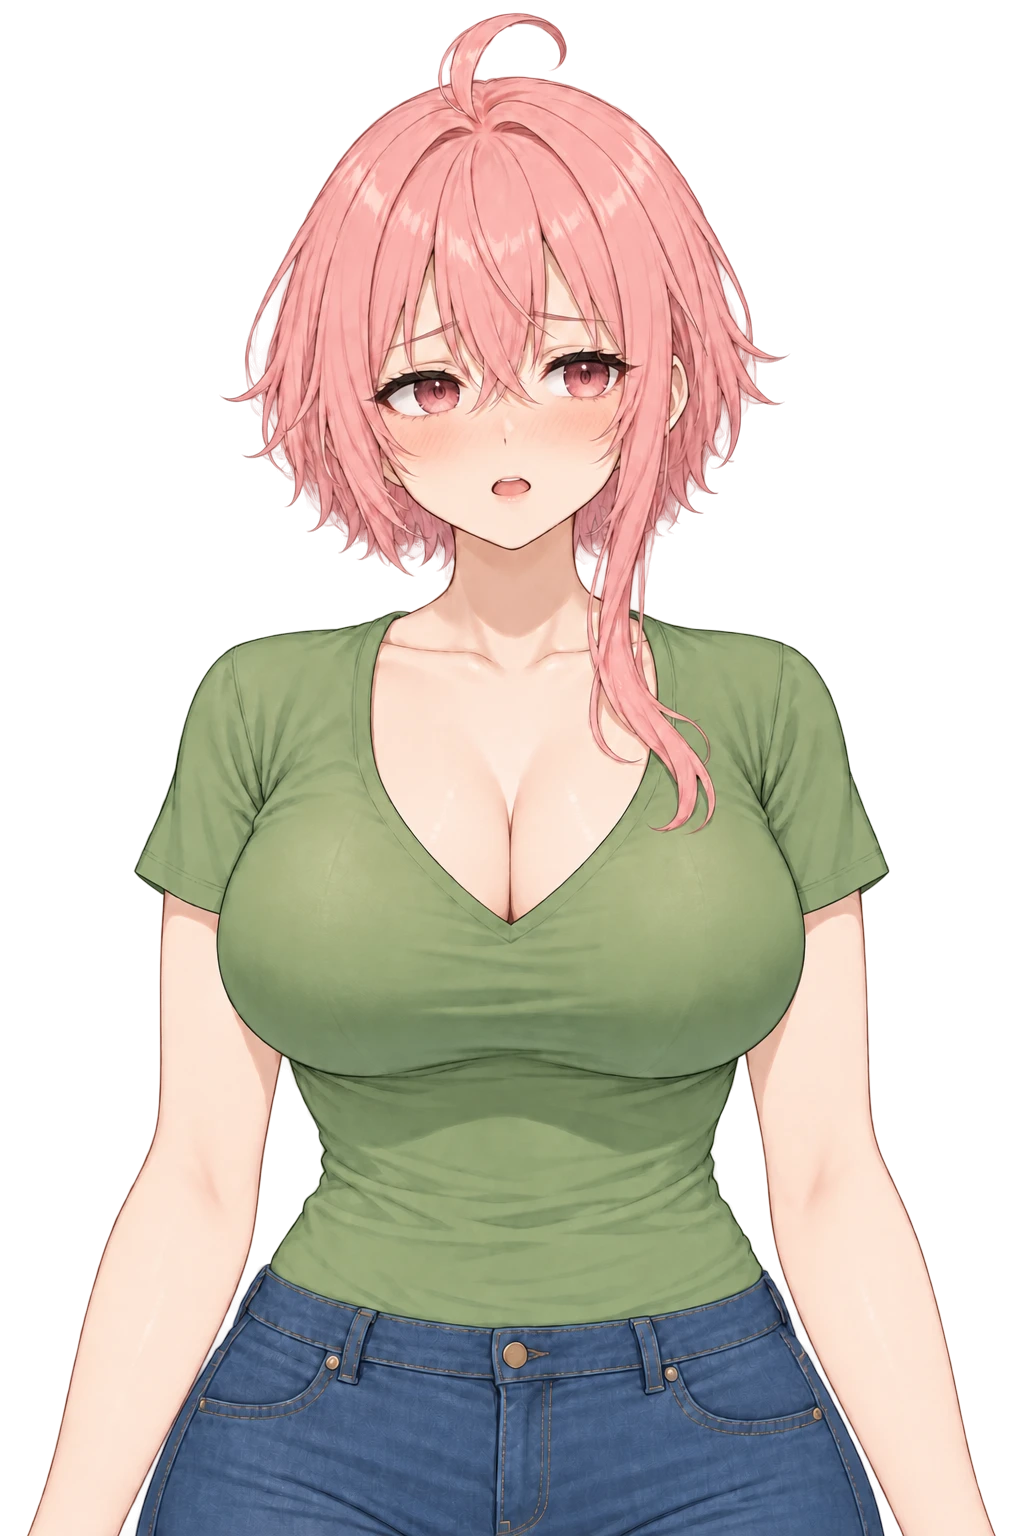
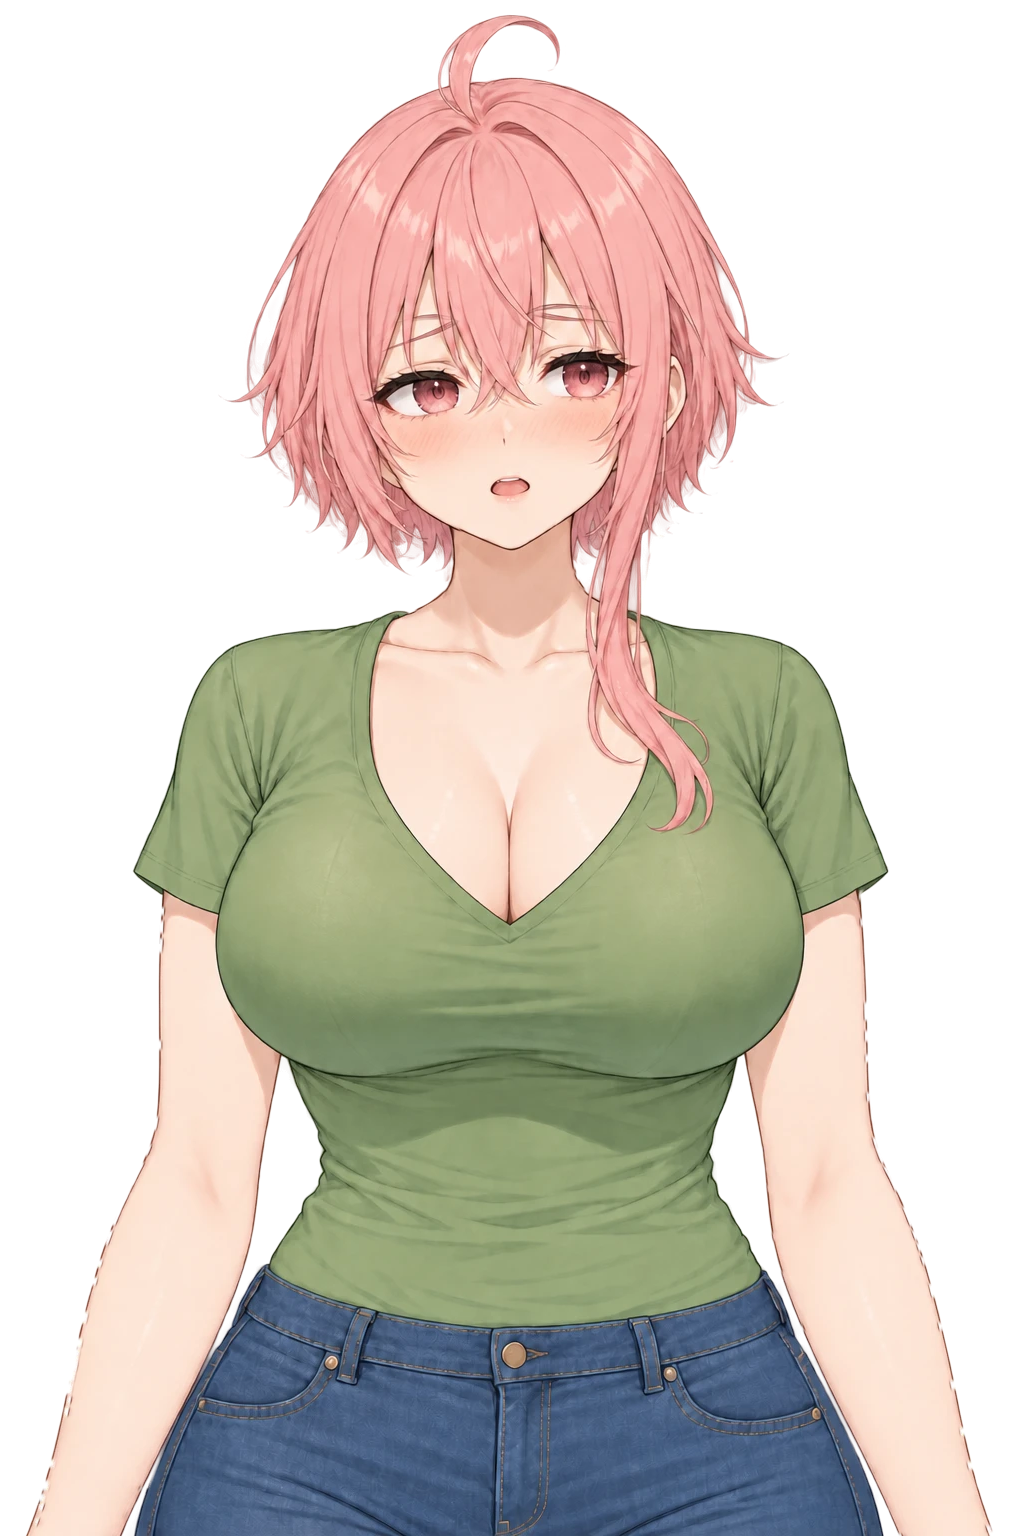
Add closed-eye and surprised art; unify hair across all part images
Generated variants redraw hair strands slightly differently, so swapping
eye/mouth/face regions made bangs jump and left doubled strands at the
blend edges. scripts/prepare_parts.py now auto-aligns each variant and
replaces every hair-colored pixel with the base image's hair, keeping
only the eye cores, mouth and (for expressions) brows from the variant.

- avatar/source/ holds the original generated images; avatar/parts/ is the processed output
- Real closed eyes (eyes_closed) and surprised face (exp_surprised, key 4)
- Surprised face keeps its own 'o' mouth; its mouth also stands in for mouth_o

Claude-Session: https://claude.ai/code/session_01Ge6z8knAgFewgZssfmod9u

diff --git a/scripts/prepare_parts.py b/scripts/prepare_parts.py
@@ -1,0 +1,167 @@
+"""差分画像の下ごしらえ: avatar/source/ の元画像 → avatar/parts/ のパーツ画像
+
+画像生成 AI で作った差分画像は、同じ絵を編集しても髪の毛の線が少しずつ描き直されている。
+そのまま目や口の範囲を差し替えると、まばたきや表情の切り替えで前髪がピクッと動いたり、
+境目で髪の線が二重に見えたりする。そこで各差分画像について
+
+  1. 基本画像との位置ずれ（数 px）を自動で見つけて合わせる
+  2. 「どちらかの画像で髪の毛の色をしている所」は基本画像の髪で上書きする
+     （目の中心部 eyeCores・口 mouthCores・表情画像の眉 browCores だけは差分画像をそのまま使う）
+
+を行い、髪が基本画像と完全に同じになったパーツ画像を書き出す。
+
+使い方:
+    pip install pillow numpy
+    python scripts/prepare_parts.py
+
+avatar/source/ に置くファイル名 = パーツ名（base.png, eyes_closed.png, exp_smile.png …）。
+1 枚の元画像を複数のパーツに使う場合は avatar.json の cleanup.reuse に書く。
+設定は avatar/avatar.json の "cleanup" を使う。
+"""
+
+import json
+import sys
+from pathlib import Path
+
+import numpy as np
+from PIL import Image, ImageFilter
+
+ROOT = Path(__file__).resolve().parent.parent
+SRC = ROOT / "avatar" / "source"
+OUT = ROOT / "avatar" / "parts"
+CONFIG = ROOT / "avatar" / "avatar.json"
+
+
+def load_rgba(path):
+    a = np.asarray(Image.open(path).convert("RGBA")).astype(np.float32) / 255.0
+    # 画像生成 AI の透過 PNG/WebP は不透明部分が alpha 0.99 程度のことがあるので整える
+    al = a[..., 3]
+    al[al > 0.94] = 1.0
+    al[al < 0.03] = 0.0
+    return a
+
+
+def on_white(a):
+    return a[..., :3] * a[..., 3:4] + (1 - a[..., 3:4])
+
+
+def hair_mask(a, hue_max=10.0, hue_min_wrap=335.0, s_min=0.2, v_min=0.35):
+    """ピンクの髪（と髪の線）らしい画素。肌・頬の赤み・唇は色相 15° 以上なので外れる"""
+    rgb = a[..., :3]
+    mx = rgb.max(-1)
+    mn = rgb.min(-1)
+    d = mx - mn + 1e-6
+    r, g, b = rgb[..., 0], rgb[..., 1], rgb[..., 2]
+    h = np.where(mx == r, ((g - b) / d) % 6, np.where(mx == g, (b - r) / d + 2, (r - g) / d + 4)) * 60.0
+    s = np.where(mx > 0, d / (mx + 1e-6), 0)
+    hue_ok = (h <= hue_max) | (h >= hue_min_wrap)
+    return hue_ok & (s >= s_min) & (mx >= v_min) & (a[..., 3] > 0.5)
+
+
+def ellipse_mask(shape, e, scale=1.0):
+    h, w = shape
+    yy, xx = np.mgrid[0:h, 0:w]
+    return ((xx - e["cx"]) / (e["rx"] * scale)) ** 2 + ((yy - e["cy"]) / (e["ry"] * scale)) ** 2 <= 1.0
+
+
+def soften(mask, grow, blur):
+    im = Image.fromarray((mask * 255).astype(np.uint8))
+    if grow > 0:
+        im = im.filter(ImageFilter.MaxFilter(grow * 2 + 1))
+    if blur > 0:
+        im = im.filter(ImageFilter.GaussianBlur(blur))
+    return np.asarray(im).astype(np.float32) / 255.0
+
+
+def find_shift(base, var, box, radius=5):
+    """体と髪の範囲で差が最小になるずらし量 (dx, dy)。var を (-dx, -dy) 動かすと base に重なる"""
+    y0, y1, x0, x1 = box
+    bg = on_white(base).mean(-1)
+    vg = on_white(var).mean(-1)
+    best = (1e9, 0, 0)
+    for dy in range(-radius, radius + 1):
+        for dx in range(-radius, radius + 1):
+            d = np.abs(bg[y0:y1, x0:x1] - vg[y0 + dy : y1 + dy, x0 + dx : x1 + dx]).mean()
+            if d < best[0]:
+                best = (d, dx, dy)
+    return best[1], best[2]
+
+
+def shift(a, dx, dy):
+    """画像を (-dx, -dy) ずらす（はみ出た所は透明）"""
+    out = np.zeros_like(a)
+    h, w = a.shape[:2]
+    ys = slice(max(0, -dy), min(h, h - dy))
+    xs = slice(max(0, -dx), min(w, w - dx))
+    yd = slice(max(0, dy), min(h, h + dy))
+    xd = slice(max(0, dx), min(w, w + dx))
+    out[ys, xs] = a[yd, xd]
+    return out
+
+
+def save(a, path):
+    Image.fromarray((np.clip(a, 0, 1) * 255 + 0.5).astype(np.uint8), "RGBA").save(path, optimize=True)
+
+
+def main():
+    cfg = json.loads(CONFIG.read_text(encoding="utf-8"))
+    cl = cfg.get("cleanup", {})
+    eye_cores = cl.get("eyeCores", [])
+    brow_cores = cl.get("browCores", [])
+    mouth_cores = cl.get("mouthCores", [])
+    reuse = cl.get("reuse", {})  # {"パーツ名": "元画像のパーツ名"}
+    grow = int(cl.get("hairGrow", 3))
+    blur = float(cl.get("edgeBlur", 1.5))
+
+    sources = {p.stem: p for p in sorted(SRC.iterdir()) if p.suffix.lower() in (".png", ".webp", ".jpg", ".jpeg")}
+    if "base" not in sources:
+        sys.exit(f"{SRC} に base.png がありません")
+
+    base = load_rgba(sources["base"])
+    H, W = base.shape[:2]
+    if (W, H) != (cfg["canvas"]["width"], cfg["canvas"]["height"]):
+        print(f"注意: base の大きさ {W}x{H} が avatar.json の canvas と違います")
+    OUT.mkdir(parents=True, exist_ok=True)
+    save(base, OUT / "base.png")
+    print("base: そのまま")
+
+    base_hair = hair_mask(base)
+    eyes = np.zeros((H, W), bool)
+    for e in eye_cores:
+        eyes |= ellipse_mask((H, W), e)
+    for e in mouth_cores:  # 口の中は髪と同じ赤みの色なので、色では見分けず保護する
+        eyes |= ellipse_mask((H, W), e)
+    brows = np.zeros((H, W), bool)
+    for e in brow_cores:
+        brows |= ellipse_mask((H, W), e)
+
+    jobs = [(name, name) for name in sources if name != "base"]
+    jobs += [(part, src) for part, src in reuse.items() if src in sources and part not in sources]
+
+    body_box = (int(H * 0.45), int(H * 0.9), int(W * 0.1), int(W * 0.9))
+    for part, src in jobs:
+        var = load_rgba(sources[src])
+        if var.shape != base.shape:
+            print(f"{part}: 大きさが base と違うのでスキップ ({var.shape[1]}x{var.shape[0]})")
+            continue
+        dx, dy = find_shift(base, var, body_box)
+        var = shift(var, dx, dy)
+
+        keep_var = eyes | (brows if part.startswith("exp_") else np.zeros_like(eyes))
+        either_hair = (base_hair | hair_mask(var)) & ~keep_var
+        use_base = soften(either_hair, grow, blur)
+        # 目・眉の保護範囲のふちもなめらかに
+        use_base = np.minimum(use_base, 1 - soften(keep_var, 0, 2.0))
+
+        out = var * (1 - use_base[..., None]) + base * use_base[..., None]
+        save(out, OUT / f"{part}.png")
+        print(f"{part}: 元画像 {src}、位置補正 ({-dx:+d}, {-dy:+d}) px、髪を base に統一")
+
+    # 位置は画像側で合わせたので、アプリ側の補正は 0 に戻す
+    cfg["align"] = {}
+    CONFIG.write_text(json.dumps(cfg, ensure_ascii=False, indent=2) + "\n", encoding="utf-8")
+    print("完了: avatar/parts/ を更新しました")
+
+
+if __name__ == "__main__":
+    main()

diff --git a/docs/PARTS_GUIDE.md b/docs/PARTS_GUIDE.md
@@ -110,9 +110,29 @@
 - 基本画像と並べて切り替えたとき、目・口の位置がずれていないか（少しなら後でアプリで補正できます）
 - キャラの大きさが変わっていないか（大きさが変わると補正できないので、作り直してください）
 
-### ステップ 3: アプリで範囲と位置を合わせる
+### ステップ 3: 髪のずれを取り除く（自動）
 
-1. 作った画像を `avatar/parts/` に同じ名前で上書きします。
+画像生成 AI は、「目だけ変えて」と頼んでも髪の毛の線を少しずつ描き直します。
+そのままだと、まばたきや表情を切り替えるたびに前髪がピクッと動いて不自然になります。
+そこで、次の下ごしらえスクリプトで **髪を基本画像とまったく同じにそろえます**。
+
+1. 作った画像を `avatar/source/` にパーツ名で置きます（例: `eyes_closed.png`）。
+2. 次を実行します（Python 3 と pillow・numpy が必要です）。
+   ```
+   pip install pillow numpy
+   python scripts/prepare_parts.py
+   ```
+3. `avatar/parts/` に、下ごしらえ済みの画像が書き出されます。
+
+スクリプトがやっていること:
+- 基本画像との数 px の位置ずれを、自動で見つけて合わせます。
+- 髪の毛の色をした所は、基本画像の髪で上書きします。
+- 目の中・口・（表情画像の）眉は保護して、差分画像のまま残します。保護範囲は `avatar.json` の `cleanup` で変えられます。
+- 1 枚の画像を別のパーツにも使いたいときは、`cleanup.reuse` に書きます（例: 笑顔の口を「あ」の口に使う）。
+
+### ステップ 4: アプリで範囲と位置を合わせる
+
+1. `avatar/parts/` の画像が新しくなっていることを確認します。
 2. `npm start` でアプリを開き、`E` キーで **パーツ調整モード** にします。
 3. 楕円をドラッグして、あなたの画像に合わせます（中心の点で移動、右下の四角で大きさを変えます）。
 
